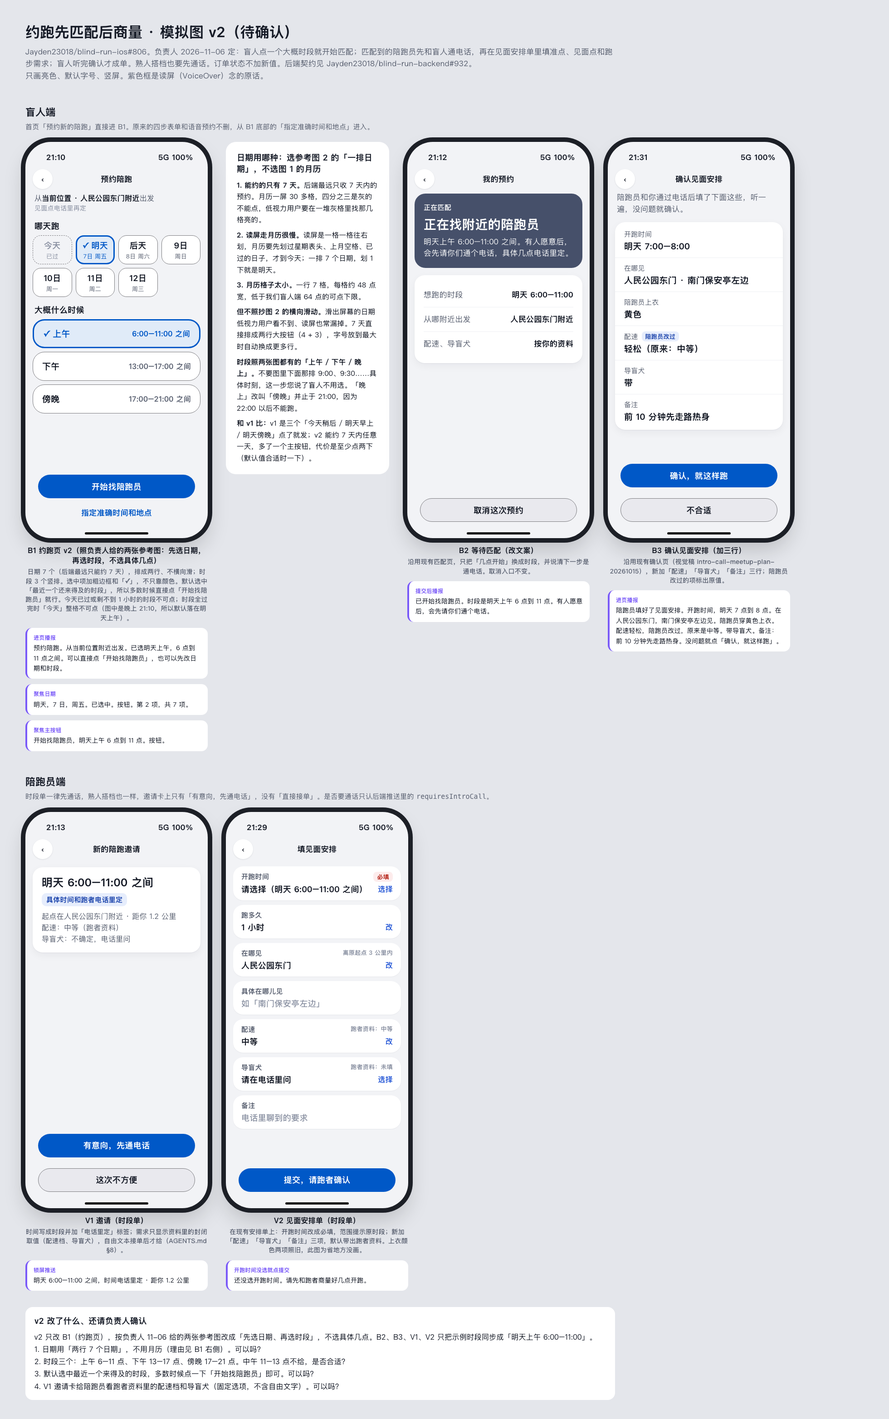
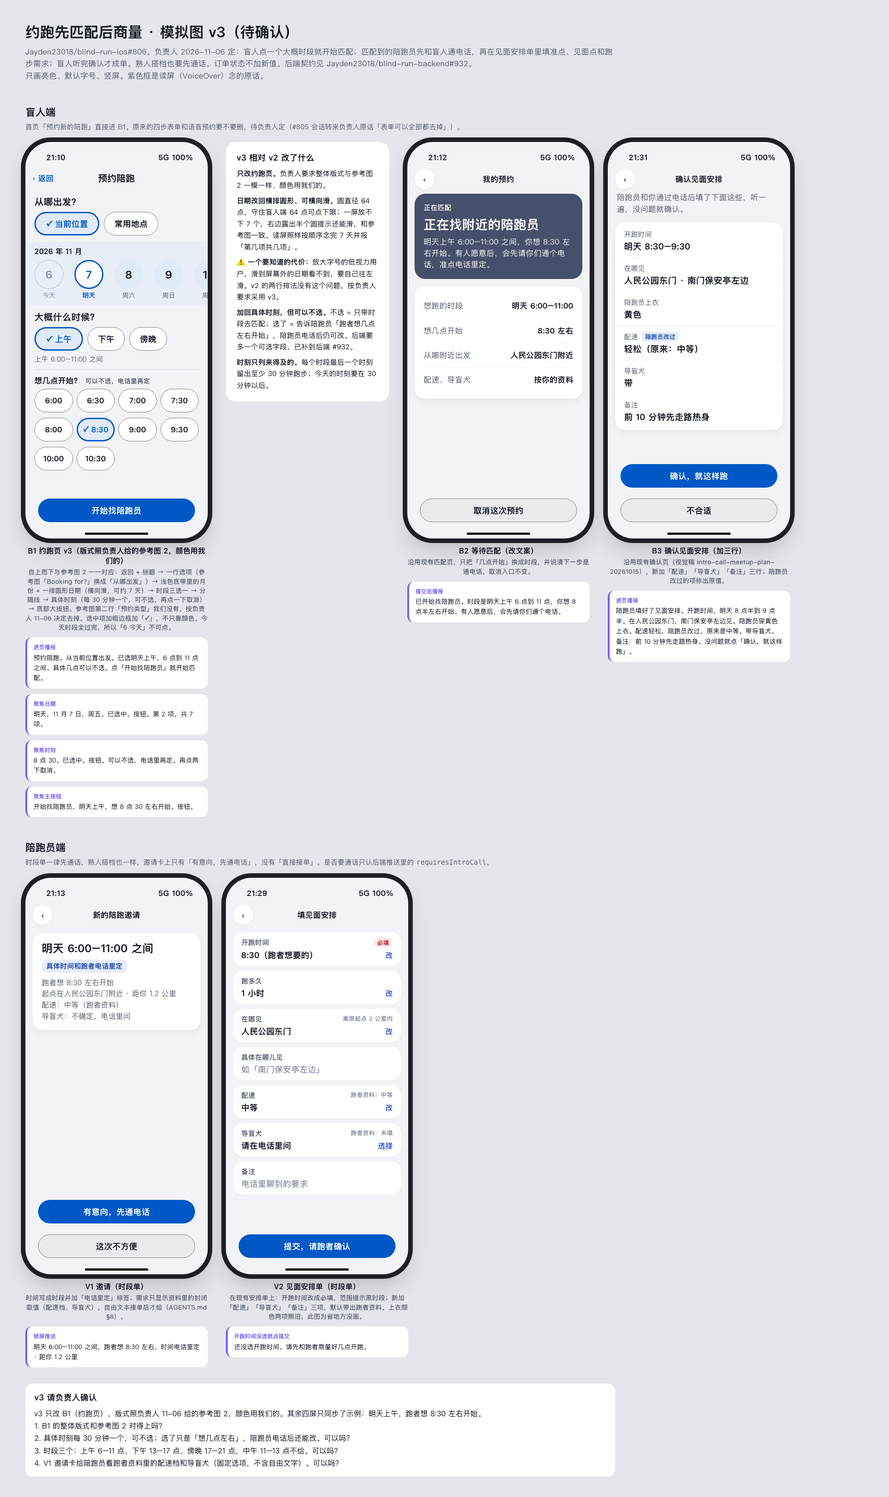
docs: 约跑页模拟图 v3，版式照负责人参考图 2，加可不选的具体时刻（#806）

diff --git a/docs/ui/mockups/blind-match-first-20261106/index.html b/docs/ui/mockups/blind-match-first-20261106/index.html
@@ -1,4 +1,4 @@
-<!doctype html><html lang="zh"><head><meta charset="utf-8"><title>约跑先匹配后商量 · 模拟图 v2（待确认）</title><style>
+<!doctype html><html lang="zh"><head><meta charset="utf-8"><title>约跑先匹配后商量 · 模拟图 v3（待确认）</title><style>
 /* 颜色取自 FlowPalette 与 ButtonChrome.ButtonPalette 亮色档，沿用 intro-call-meetup-plan-20261015 的取值，不新增颜色。 */
 :root{
   --page:#F2F3F6; --matching:#46506A; --surface:#FFFFFF; --ink:#151A26; --ink2:#5B6272; --ink3:#8A91A2; --sep:#EEF0F4;
@@ -83,58 +83,87 @@ h2{font-size:22px;font-weight:800;margin:52px 0 6px}
 .why{width:360px;background:#fff;border-radius:22px;padding:22px 24px;font-size:15.5px;line-height:1.65}
 .why h3{font-size:18px;margin-bottom:10px;line-height:1.4}
 .why p{margin-top:8px}
+.nav3{height:52px;flex:none;display:flex;align-items:center;justify-content:space-between;padding:0 16px}
+.nav3 .back{font-size:17px;font-weight:600;color:var(--btn);width:64px}
+.nav3 .t3{font-size:20px;font-weight:800;color:var(--ink)}
+.h3t{font-size:20px;font-weight:800;padding:12px 20px 8px;color:var(--ink)}
+.h3s{font-size:17px;font-weight:800;padding:8px 20px 6px}
+.h3s span{font-size:14px;font-weight:600;color:var(--ink2);margin-left:8px}
+.pills{display:flex;gap:10px;padding:0 20px;flex-wrap:wrap}
+.pill{height:52px;padding:0 22px;border-radius:26px;background:#fff;border:1.5px solid var(--grayStroke);display:flex;align-items:center;font-size:18px;font-weight:600;color:var(--ink)}
+.pill.on{border:3px solid var(--btn);background:var(--btn2bg);color:var(--btn);font-weight:800}
+.band{background:#E8EEF7;margin-top:14px;padding:10px 0 12px}
+.months{padding:0 20px 8px;font-size:16px;color:var(--ink)}
+.circles{display:flex;gap:24px;padding:0 20px;overflow:hidden;width:100%}
+.cd{flex:none;width:64px;display:flex;flex-direction:column;align-items:center}
+.cd i{font-style:normal;width:64px;height:64px;border-radius:32px;background:var(--btn2bg);display:flex;align-items:center;justify-content:center;font-size:24px;font-weight:600;color:var(--ink)}
+.cd span{font-size:14px;color:var(--ink2);margin-top:4px}
+.cd.on i{background:#fff;border:3px solid var(--btn);color:var(--btn);font-weight:800}
+.cd.on span{color:var(--btn);font-weight:800}
+.cd.off i{background:transparent;border:1.5px dashed var(--ink3);color:var(--ink3)}
+.cd.off span{color:var(--ink3)}
+.range{font-size:15px;color:var(--ink2);padding:8px 20px 0}
+.hr{height:1px;background:var(--ghost);margin:12px 20px 4px}
+.times{display:grid;grid-template-columns:repeat(4,1fr);gap:12px 8px;padding:0 20px}
+.tc{height:52px;border-radius:26px;background:#fff;border:1.5px solid var(--grayStroke);display:flex;align-items:center;justify-content:center;font-size:17px;font-weight:600}
+.tc.on{border:3px solid var(--btn);background:var(--btn2bg);color:var(--btn);font-weight:800}
 </style></head><body>
-<h1>约跑先匹配后商量 · 模拟图 v2（待确认）</h1>
+<h1>约跑先匹配后商量 · 模拟图 v3（待确认）</h1>
 <p class="lede">Jayden23018/blind-run-ios#806。负责人 2026-11-06 定：盲人点一个大概时段就开始匹配；匹配到的陪跑员先和盲人通电话，再在见面安排单里填准点、见面点和跑步需求；盲人听完确认才成单。熟人搭档也要先通话。订单状态不加新值。后端契约见 Jayden23018/blind-run-backend#932。<br>只画亮色、默认字号、竖屏。紫色框是读屏（VoiceOver）念的原话。</p>
 
 <h2>盲人端</h2>
-<p class="h2sub">首页「预约新的陪跑」直接进 B1。原来的四步表单和语音预约不删，从 B1 底部的「指定准确时间和地点」进入。</p>
+<p class="h2sub">首页「预约新的陪跑」直接进 B1。原来的四步表单和语音预约要不要删，待负责人定（#805 会话转来负责人原话「表单可以全部都去掉」）。</p>
 <div class="row">
 
 <div class="col">
 <div class="phone">
   <div class="sb"><span>21:10</span><span>5G 100%</span></div>
-  <div class="nav"><div class="circ">‹</div><div class="t">预约陪跑</div></div>
-  <div class="loc">从<b>当前位置 · 人民公园东门附近</b>出发 <span>见面点电话里再定</span></div>
-  <div class="grp">哪天跑</div>
-  <div class="days">
-    <div class="day off"><div><b>今天</b><span>已过</span></div></div>
-    <div class="day on"><div><b>✓ 明天</b><span>7日 周五</span></div></div>
-    <div class="day"><div><b>后天</b><span>8日 周六</span></div></div>
-    <div class="day"><div><b>9日</b><span>周日</span></div></div>
-    <div class="day"><div><b>10日</b><span>周一</span></div></div>
-    <div class="day"><div><b>11日</b><span>周二</span></div></div>
-    <div class="day"><div><b>12日</b><span>周三</span></div></div>
+  <div class="nav3"><span class="back">‹ 返回</span><span class="t3">预约陪跑</span><span style="width:64px"></span></div>
+  <div class="h3t">从哪出发？</div>
+  <div class="pills"><div class="pill on">✓ 当前位置</div><div class="pill">常用地点</div></div>
+  <div class="band">
+    <div class="months"><b>2026 年 11 月</b></div>
+    <div class="circles">
+      <div class="cd off"><i>6</i><span>今天</span></div>
+      <div class="cd on"><i>7</i><span>明天</span></div>
+      <div class="cd"><i>8</i><span>周六</span></div>
+      <div class="cd"><i>9</i><span>周日</span></div>
+      <div class="cd"><i>10</i><span>周一</span></div>
+      <div class="cd"><i>11</i><span>周二</span></div>
+      <div class="cd"><i>12</i><span>周三</span></div>
+    </div>
   </div>
-  <div class="grp">大概什么时候</div>
-  <div class="tslots">
-    <div class="ts on"><div><b>✓ 上午</b><span>6:00–11:00 之间</span></div></div>
-    <div class="ts"><div><b>下午</b><span>13:00–17:00 之间</span></div></div>
-    <div class="ts"><div><b>傍晚</b><span>17:00–21:00 之间</span></div></div>
+  <div class="h3t">大概什么时候？</div>
+  <div class="pills"><div class="pill on">✓ 上午</div><div class="pill">下午</div><div class="pill">傍晚</div></div>
+  <div class="range">上午 6:00–11:00 之间</div>
+  <div class="hr"></div>
+  <div class="h3s">想几点开始？<span>可以不选，电话里再定</span></div>
+  <div class="times">
+    <div class="tc">6:00</div><div class="tc">6:30</div><div class="tc">7:00</div><div class="tc">7:30</div>
+    <div class="tc">8:00</div><div class="tc on">✓ 8:30</div><div class="tc">9:00</div><div class="tc">9:30</div>
+    <div class="tc">10:00</div><div class="tc">10:30</div>
   </div>
-  <div class="bottom" style="padding-top:8px;gap:0">
-    <div class="b1"><div>开始找陪跑员</div></div>
-    <div class="textbtn" style="min-height:52px">指定准确时间和地点</div>
-  </div>
+  <div class="bottom" style="padding-top:6px"><div class="b1"><div>开始找陪跑员</div></div></div>
   <div class="hi"></div>
 </div>
-<div class="cap">B1 约跑页 v2（照负责人给的两张参考图：先选日期，再选时段，不选具体几点）<small>日期 7 个（后端最远只能约 7 天），排成两行、不横向滑；时段 3 个竖排。选中项加粗边框和「✓」，不只靠颜色。默认选中「最近一个还来得及的时段」，所以多数时候直接点「开始找陪跑员」就行。今天已过或剩不到 1 小时的时段不可点；时段全过完时「今天」整格不可点（图中是晚上 21:10，所以默认落在明天上午）。</small></div>
-<div class="speak"><b>进页播报</b>预约陪跑。从当前位置附近出发。已选明天上午，6 点到 11 点之间。可以直接点「开始找陪跑员」，也可以先改日期和时段。</div>
-<div class="speak"><b>聚焦日期</b>明天，7 日，周五。已选中。按钮。第 2 项，共 7 项。</div>
-<div class="speak"><b>聚焦主按钮</b>开始找陪跑员，明天上午 6 点到 11 点。按钮。</div>
+<div class="cap">B1 约跑页 v3（版式照负责人给的参考图 2，颜色用我们的）<small>自上而下与参考图 2 一一对应：返回 + 标题 → 一行选项（参考图「Booking for?」换成「从哪出发」）→ 浅色底带里的月份 + 一排圆形日期（横向滑，可约 7 天）→ 时段三选一 → 分隔线 → 具体时刻（每 30 分钟一个，可不选，再点一下取消）→ 底部大按钮。参考图第二行「预约类型」我们没有，按负责人 11-06 决定去掉。选中项加粗边框加「✓」，不只靠颜色。今天时段全过完，所以「6 今天」不可点。</small></div>
+<div class="speak"><b>进页播报</b>预约陪跑。从当前位置出发。已选明天上午，6 点到 11 点之间。具体几点可以不选。点「开始找陪跑员」就开始匹配。</div>
+<div class="speak"><b>聚焦日期</b>明天，11 月 7 日，周五。已选中。按钮。第 2 项，共 7 项。</div>
+<div class="speak"><b>聚焦时刻</b>8 点 30。已选中。按钮。可以不选，电话里再定。再点两下取消。</div>
+<div class="speak"><b>聚焦主按钮</b>开始找陪跑员，明天上午，想 8 点 30 左右开始。按钮。</div>
 </div>
 
 <div class="col" style="width:360px">
 <div class="why">
-<h3>日期用哪种：选参考图 2 的「一排日期」，不选图 1 的月历</h3>
-<p><b>1. 能约的只有 7 天。</b>后端最远只收 7 天内的预约。月历一屏 30 多格，四分之三是灰的不能点，低视力用户要在一堆灰格里找那几格亮的。</p>
-<p><b>2. 读屏走月历很慢。</b>读屏是一格一格往右划，月历要先划过星期表头、上月空格、已过的日子，才到今天；一排 7 个日期，划 1 下就是明天。</p>
-<p><b>3. 月历格子太小。</b>一行 7 格，每格约 48 点宽，低于我们盲人端 64 点的可点下限。</p>
-<p><b>但不照抄图 2 的横向滑动。</b>滑出屏幕的日期低视力用户看不到、读屏也常漏掉。7 天直接排成两行大按钮（4 + 3），字号放到最大时自动换成更多行。</p>
-<p><b>时段照两张图都有的「上午 / 下午 / 晚上」。</b>不要图里下面那排 9:00、9:30……具体时刻，这一步您说了盲人不用选。「晚上」改叫「傍晚」并止于 21:00，因为 22:00 以后不能跑。</p>
-<p><b>和 v1 比：</b>v1 是三个「今天稍后 / 明天早上 / 明天傍晚」点了就发；v2 能约 7 天内任意一天，多了一个主按钮，代价是至少点两下（默认值合适时一下）。</p>
+<h3>v3 相对 v2 改了什么</h3>
+<p><b>只改约跑页。</b>负责人要求整体版式与参考图 2 一模一样、颜色用我们的。</p>
+<p><b>日期改回横排圆形、可横向滑。</b>圆直径 64 点，守住盲人端 64 点可点下限；一屏放不下 7 个，右边露出半个圆提示还能滑，和参考图一致。读屏照样按顺序念完 7 天并报「第几项共几项」。</p>
+<p><b>⚠ 一个要知道的代价：</b>放大字号的低视力用户，滑到屏幕外的日期看不到，要自己往左滑。v2 的两行排法没有这个问题。按负责人要求采用 v3。</p>
+<p><b>加回具体时刻，但可以不选。</b>不选 = 只带时段去匹配；选了 = 告诉陪跑员「跑者想几点左右开始」，陪跑员电话后仍可改。后端要多一个可选字段，已补到后端 #932。</p>
+<p><b>时刻只列来得及的。</b>每个时段最后一个时刻留出至少 30 分钟跑步；今天的时刻要在 30 分钟以后。</p>
 </div>
 </div>
+
 
 <div class="col">
 <div class="phone">
@@ -143,10 +172,11 @@ h2{font-size:22px;font-weight:800;margin:52px 0 6px}
   <div class="hero">
     <div class="eb">正在匹配</div>
     <div class="say">正在找附近的陪跑员</div>
-    <div class="ss">明天上午 6:00–11:00 之间。有人愿意后，会先请你们通个电话，具体几点电话里定。</div>
+    <div class="ss">明天上午 6:00–11:00 之间，你想 8:30 左右开始。有人愿意后，会先请你们通个电话，准点电话里定。</div>
   </div>
   <div class="card">
     <div class="kv"><span>想跑的时段</span><span>明天 6:00–11:00</span></div>
+    <div class="kv"><span>想几点开始</span><span>8:30 左右</span></div>
     <div class="kv"><span>从哪附近出发</span><span>人民公园东门附近</span></div>
     <div class="kv"><span>配速、导盲犬</span><span>按你的资料</span></div>
   </div>
@@ -154,7 +184,7 @@ h2{font-size:22px;font-weight:800;margin:52px 0 6px}
   <div class="hi"></div>
 </div>
 <div class="cap">B2 等待匹配（改文案）<small>沿用现有匹配页，只把「几点开始」换成时段，并说清下一步是通电话。取消入口不变。</small></div>
-<div class="speak"><b>提交后播报</b>已开始找陪跑员。时段是明天上午 6 点到 11 点。有人愿意后，会先请你们通个电话。</div>
+<div class="speak"><b>提交后播报</b>已开始找陪跑员。时段是明天上午 6 点到 11 点，你想 8 点半左右开始。有人愿意后，会先请你们通个电话。</div>
 </div>
 
 <div class="col">
@@ -163,7 +193,7 @@ h2{font-size:22px;font-weight:800;margin:52px 0 6px}
   <div class="nav"><div class="circ">‹</div><div class="t">确认见面安排</div></div>
   <div class="sub" style="padding-top:0">陪跑员和你通过电话后填了下面这些，听一遍，没问题就确认。</div>
   <div class="card plan" style="padding:4px 0">
-    <div class="item"><div class="l">开跑时间</div><div class="v">明天 7:00–8:00</div></div>
+    <div class="item"><div class="l">开跑时间</div><div class="v">明天 8:30–9:30</div></div>
     <div class="item"><div class="l">在哪见</div><div class="v">人民公园东门 · 南门保安亭左边</div></div>
     <div class="item"><div class="l">陪跑员上衣</div><div class="v">黄色</div></div>
     <div class="item"><div class="l">配速 <span class="tag">陪跑员改过</span></div><div class="v">轻松（原来：中等）</div></div>
@@ -177,7 +207,7 @@ h2{font-size:22px;font-weight:800;margin:52px 0 6px}
   <div class="hi"></div>
 </div>
 <div class="cap">B3 确认见面安排（加三行）<small>沿用现有确认页（视觉稿 intro-call-meetup-plan-20261015），新加「配速」「导盲犬」「备注」三行；陪跑员改过的项标出原值。</small></div>
-<div class="speak"><b>进页播报</b>陪跑员填好了见面安排。开跑时间，明天 7 点到 8 点。在人民公园东门，南门保安亭左边见。陪跑员穿黄色上衣。配速轻松，陪跑员改过，原来是中等。带导盲犬。备注：前 10 分钟先走路热身。没问题就点「确认，就这样跑」。</div>
+<div class="speak"><b>进页播报</b>陪跑员填好了见面安排。开跑时间，明天 8 点半到 9 点半。在人民公园东门，南门保安亭左边见。陪跑员穿黄色上衣。配速轻松，陪跑员改过，原来是中等。带导盲犬。备注：前 10 分钟先走路热身。没问题就点「确认，就这样跑」。</div>
 </div>
 </div>
 
@@ -192,7 +222,7 @@ h2{font-size:22px;font-weight:800;margin:52px 0 6px}
   <div class="inv">
     <div class="when">明天 6:00–11:00 之间</div>
     <div class="tbd">具体时间和跑者电话里定</div>
-    <div class="meta">起点在人民公园东门附近 · 距你 1.2 公里<br>配速：中等（跑者资料）<br>导盲犬：不确定，电话里问</div>
+    <div class="meta">跑者想 8:30 左右开始<br>起点在人民公园东门附近 · 距你 1.2 公里<br>配速：中等（跑者资料）<br>导盲犬：不确定，电话里问</div>
   </div>
   <div class="bottom">
     <div class="b1"><div>有意向，先通电话</div></div>
@@ -201,7 +231,7 @@ h2{font-size:22px;font-weight:800;margin:52px 0 6px}
   <div class="hi"></div>
 </div>
 <div class="cap">V1 邀请（时段单）<small>时间写成时段并加「电话里定」标签；需求只显示资料里的封闭取值（配速档、导盲犬），自由文本接单后才给（AGENTS.md §8）。</small></div>
-<div class="speak"><b>锁屏推送</b>明天 6:00–11:00 之间，时间电话里定 · 距你 1.2 公里</div>
+<div class="speak"><b>锁屏推送</b>明天 6:00–11:00 之间，跑者想 8:30 左右，时间电话里定 · 距你 1.2 公里</div>
 </div>
 
 <div class="col">
@@ -209,7 +239,7 @@ h2{font-size:22px;font-weight:800;margin:52px 0 6px}
   <div class="sb"><span>21:29</span><span>5G 100%</span></div>
   <div class="nav"><div class="circ">‹</div><div class="t">填见面安排</div></div>
   <div class="scroll">
-  <div class="sec"><h4>开跑时间 <span class="req">必填</span></h4><div class="now"><span>请选择（明天 6:00–11:00 之间）</span><span class="chg">选择</span></div></div>
+  <div class="sec"><h4>开跑时间 <span class="req">必填</span></h4><div class="now"><span>8:30（跑者想要的）</span><span class="chg">改</span></div></div>
   <div class="sec"><h4>跑多久</h4><div class="now"><span>1 小时</span><span class="chg">改</span></div></div>
   <div class="sec"><h4>在哪见 <span class="from">离原起点 3 公里内</span></h4><div class="now"><span>人民公园东门</span><span class="chg">改</span></div></div>
   <div class="sec"><h4>具体在哪儿见</h4><div class="now"><span style="color:var(--ink3);font-weight:500">如「南门保安亭左边」</span></div></div>
@@ -226,11 +256,11 @@ h2{font-size:22px;font-weight:800;margin:52px 0 6px}
 </div>
 
 <div class="ask">
-<h3>v2 改了什么、还请负责人确认</h3>
-v2 只改 B1（约跑页），按负责人 11-06 给的两张参考图改成「先选日期、再选时段」，不选具体几点。B2、B3、V1、V2 只把示例时段同步成「明天上午 6:00–11:00」。<br>
-1. 日期用「两行 7 个日期」，不用月历（理由见 B1 右侧）。可以吗？<br>
-2. 时段三个：上午 6–11 点、下午 13–17 点、傍晚 17–21 点。中午 11–13 点不给，是否合适？<br>
-3. 默认选中最近一个来得及的时段，多数时候点一下「开始找陪跑员」即可。可以吗？<br>
+<h3>v3 请负责人确认</h3>
+v3 只改 B1（约跑页），版式照负责人 11-06 给的参考图 2，颜色用我们的。其余四屏只同步了示例：明天上午，跑者想 8:30 左右开始。<br>
+1. B1 的整体版式和参考图 2 对得上吗？<br>
+2. 具体时刻每 30 分钟一个，可不选；选了只是「想几点左右」，陪跑员电话后还能改。可以吗？<br>
+3. 时段三个：上午 6–11 点、下午 13–17 点、傍晚 17–21 点，中午 11–13 点不给。可以吗？<br>
 4. V1 邀请卡给陪跑员看跑者资料里的配速档和导盲犬（固定选项，不含自由文字）。可以吗？
 </div>
 </body></html>

diff --git a/docs/ui/mockups/INDEX.md b/docs/ui/mockups/INDEX.md
@@ -67,4 +67,4 @@ Claude Design 官方自认「没有版本历史」（[support.claude.com 原文]
 | 两端共用 邀请好友 · 联系客服 + 我的工单 · 已拉黑的人 · 关于 | `blind-shared-pages-20261105/`（`invite-final.png` `support-final.png` `blocked-final.png` `about-final.png`） | Current | 取代四页旧样式（灰卡堆叠、一句话人数、整段规则、整宽「解除」按钮、名字版本两行列表），陪跑员端跟着变 | 负责人 2026-11-05，原话见 PR 描述；设计存档 `2026-11-05-blind-secondary-pages/final/DECISION.md` | `Shared/InviteCodeView.swift` `Shared/InviteCode.swift` `Shared/SupportTicketView.swift` `Shared/MySupportTicketsView.swift` `Shared/BlockedUsersView.swift` `Volunteer/AboutAidRunView.swift` `Core/AboutAppSections.swift` | 未做真机对照（负责人 2026-11-05 定：不跑测试，自己验）。有意偏差：邀请页警告正文沿用原句「对方必须在选择身份那一步……无法补填。」；没人用过邀请码时两行写「0 人」，组下加一行「还没有人使用你的邀请码。」；工单状态标签字用主文字色而非绿字（绿字压浅绿底约 4.1:1，不到 4.5:1）；拉黑时间沿用日期 + 时间；关于页查询行仍显示网址（通知要求网址在编号下方），「隐私政策」「用户协议」两行样式没改（`LegalDocumentsView.swift` 不在本次范围） |
 | 盲人端 少填表：从通讯录添加紧急联系人（选人后一页确认）、手动输入两格、编辑页按钮挪底部、添加常用地点独立一页（顶部「使用当前定位」+ 最近跑过的地点） | `blind-fewer-forms-20261106/`（`draft.html` + `draft.png`；`favorite-place-v2.png` 是常用地点 v2；`before-add-form.png` 是改前） | Current（负责人 11-06 认可：紧急联系人选人与手动分开、去掉主联系人开关、保留短信说明；常用地点按 v2，「使用当前定位」= 默认出发地点跟着人走，不存成一条收藏） | 若批准：取代 `EmergencyContactFormView` 新增态的四项表单与工具栏「取消 / 保存」；首页「添加常用地点」不再进约跑表单。列表页、关系选择页仍按 #747 | 负责人 2026-11-06 定的三条（#807 计划，AskUserQuestion：不碰资料页、新增时拿掉关系与主联系人、只改本 PR 碰到的页） | `EmergencyContactFormView.swift` `EmergencyContactsView.swift`，新文件 `EmergencyContactAddConfirmPage.swift` `BlindFavoritePlaceAddPage.swift`；`BlindRunnerHomeView.swift` 的 `.addFavoritePlace` | 已实现（PR #808，只编译、未跑测试、未真机对照）。有意偏差：确认页与手动页标题沿用「新增紧急联系人」（UI 用例与读屏按它判进页；稿上写「添加紧急联系人」「手动输入」），按钮仍叫「添加」；搜索框上方有一行可见标题「搜索地点」（`VoiceTextField` 自带）；定位不可用时「使用当前定位」仍可选，副标题改说「现在拿不到定位」。未画：AX5、深色、搜索失败与无结果 |
 | 盲人端「使用帮助」（四段四张卡） | `blind-help-20261105/`（`help-final.png`） | Current | 取代四段纯文字堆叠、标题带「第一，」序号的旧版式 | 负责人 2026-11-05，原话见 PR 描述；设计存档 `2026-11-05-blind-secondary-pages/final/DECISION.md` | `BlindRunner/BlindRunnerHelpView.swift`，组件 `Shared/GroupedCardStyle.swift` | 未做真机对照（负责人 2026-11-05 定：不跑测试，自己验）。有意偏差：第一张卡保留「开始时间要比现在晚 N 分钟以上」（稿上删了，但它不是重复的句子，删了用户会照引导下单然后被拒）；第三张卡保留「首页那个在『你好』这一行的右边」；第四张卡正文沿用原文；播报仍带「第一、第二……」序号和开头「欢迎使用助盲跑。」，卡片标题不带。底部按钮栏固定在屏幕底部，按钮样式以 #749 为准 |
-| 盲人端约跑「先匹配后商量」（v2：选日期 + 选上午/下午/傍晚，不选具体几点 → 通话 → 陪跑员填安排单含需求 → 盲人确认；陪跑员邀请卡与安排单跟着变） | `blind-match-first-20261106/`（`index.html` + `draft.png`） | 待确认 | 若批准：盲人端约跑入口改走新的一键页，四步表单降为「指定准确时间和地点」次要入口；安排单部分在 `intro-call-meetup-plan-20261015/` v2 上加三项 | 负责人 2026-11-06 三条决定（#806 评论、后端 Jayden23018/blind-run-backend#932）+ 同日给的两张预约参考图（日期 + 时段）；视觉与文案听本稿 v2 | 未实现（等负责人同意与后端 #932 合并） | 未画：深色、AX5、横屏、时间选择器 |
+| 盲人端约跑「先匹配后商量」（v3：版式照负责人参考图 2——出发地点、横排日期、上午/下午/傍晚、可不选的具体时刻 → 通话 → 陪跑员填安排单含需求 → 盲人确认；陪跑员邀请卡与安排单跟着变） | `blind-match-first-20261106/`（`index.html` + `draft.png`） | 待确认 | 若批准：盲人端约跑入口改走新的一键页，四步表单降为「指定准确时间和地点」次要入口；安排单部分在 `intro-call-meetup-plan-20261015/` v2 上加三项 | 负责人 2026-11-06 三条决定（#806 评论、后端 Jayden23018/blind-run-backend#932）+ 同日给的预约参考图 2（要求版式一模一样、颜色用我们的）；视觉与文案听本稿 v3 | 未实现（等负责人同意与后端 #932 合并） | 未画：深色、AX5、横屏、时间选择器 |
